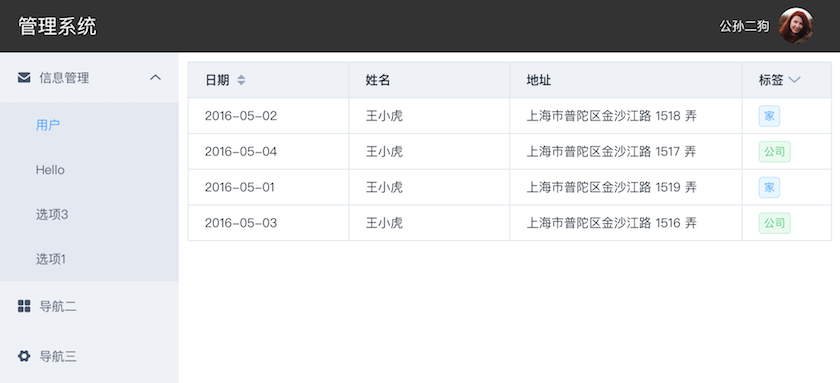
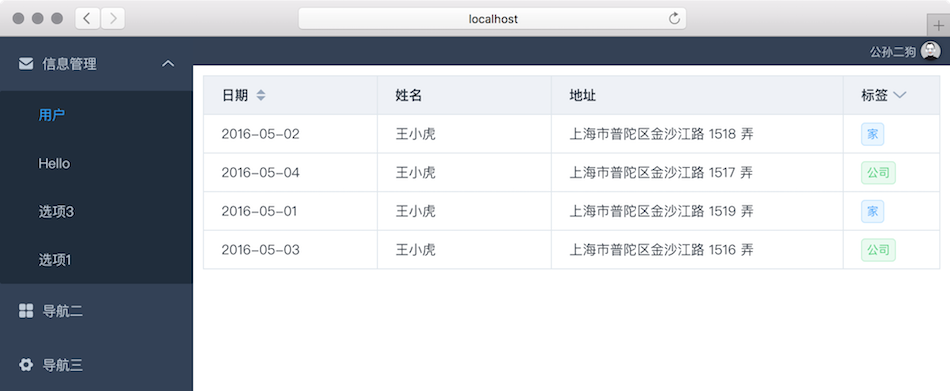
revise

diff --git a/source/_posts/fe-vue-admin.md b/source/_posts/fe-vue-admin.md
@@ -56,56 +56,6 @@ new Vue({
 
 > 在 main.js 中引入 Element，例如 vuex 也在此页面引入。
 
-## App.vue
-
-```html
-<template>
-    <div id="app">
-        <transition name="fade" mode="out-in">
-            <router-view></router-view>
-        </transition>
-    </div>
-</template>
-
-<script>
-    export default {};
-</script>
-
-<style lang="scss">
-    body {
-        font-family: '微软雅黑', Helvetica, Arial, sans-serif;
-        -webkit-font-smoothing: antialiased;
-        -moz-osx-font-smoothing: grayscale;
-
-        margin: 0px;
-        padding: 0px;
-        font-size: 14px;
-    }
-
-    #app {
-        position: absolute;
-        top: 0px;
-        bottom: 0px;
-        width: 100%;
-    }
-
-    /* transition fade 的样式 */
-    .fade-enter-active,
-    .fade-leave-active {
-    	transition: all .2s ease;
-    }
-
-    .fade-enter,
-    .fade-leave-active {
-    	opacity: 0;
-    }
-</style>
-```
-
-> Home, 404 等都是替换此页中的 router-view，因为它们在 routes 配置中是第一级 path。
->
-> 动画 transition 中的 mode="out-in" 不能省略。
-
 ## router/index.js
 
 ```js
@@ -144,50 +94,102 @@ export default new Router({
 >
 > 此外还配置了 404 的路由。
 
+## App.vue
+
+```html
+<template>
+    <div id="app">
+        <transition name="fade" mode="out-in">
+            <router-view></router-view>
+        </transition>
+    </div>
+</template>
+
+<script>
+    export default {};
+</script>
+
+<style lang="scss">
+    html, body {
+        font-family: '微软雅黑', Helvetica, Arial, sans-serif;
+        -webkit-font-smoothing: antialiased;
+        -moz-osx-font-smoothing: grayscale;
+        margin: 0px;
+        padding: 0px;
+        font-size: 14px;
+    }
+
+    #app {
+        position: absolute;
+        top: 0;
+        left: 0;
+        bottom: 0;
+        right: 0;
+    }
+
+    /* transition fade 的样式 */
+    .fade-enter-active,
+    .fade-leave-active {
+    	transition: all .2s ease;
+    }
+    .fade-enter,
+    .fade-leave-active {
+    	opacity: 0;
+    }
+</style>
+```
+
+> Home, 404 等都是替换此页中的 router-view，因为它们在 routes 配置中是第一级 path。
+>
+> 动画 transition 中的 mode="out-in" 不能省略。
+
 ## Home.vue
 
 ```html
 <template>
-    <el-row class="container">
-        <!-- 最上面的头部信息 -->
-        <el-col :span="24" class="header">
-            <el-col :span="10" class="logo">{{systemName}}</el-col>
-            <el-col :span="4" class="userinfo">
-                <el-dropdown trigger="hover">
-                    <span class="el-dropdown-link userinfo-inner"><img :src="avatar" />{{username}}</span>
-                    <el-dropdown-menu slot="dropdown">
-                        <el-dropdown-item>消息</el-dropdown-item>
-                        <el-dropdown-item>设置</el-dropdown-item>
-                        <el-dropdown-item divided @click.native="logout">退出登录</el-dropdown-item>
-                    </el-dropdown-menu>
-                </el-dropdown>
-            </el-col>
-        </el-col>
+    <div class="container">
+        <!-- 侧边导航栏 -->
+        <div class="sidebar">
+            <el-menu :default-active="$route.path" router theme="dark">
+                <el-submenu index="1">
+                    <template slot="title"><i class="el-icon-message"></i>信息管理</template>
+                    <el-menu-item index="/users">用户</el-menu-item>
+                    <el-menu-item index="/hello">Hello</el-menu-item>
+                    <el-menu-item index="1-3">选项3</el-menu-item>
+                    <el-menu-item index="1-4-1">选项1</el-menu-item>
+                </el-submenu>
+                <el-menu-item index="2"><i class="el-icon-menu"></i>导航二</el-menu-item>
+                <el-menu-item index="3"><i class="el-icon-setting"></i>导航三</el-menu-item>
+            </el-menu>
+        </div>
 
-        <el-col :span="24" class="main">
-            <!-- 侧边导航栏: router 表示路由，index 为路由的路径 -->
-            <div class="sidebar">
-                <el-menu default-active="1" router>
-                    <el-submenu index="1">
-                        <template slot="title"><i class="el-icon-message"></i>信息管理</template>
-                        <el-menu-item index="/users">用户</el-menu-item>
-                        <el-menu-item index="/hello">Hello</el-menu-item>
-                        <el-menu-item index="1-3">选项3</el-menu-item>
-                        <el-menu-item index="1-4-1">选项1</el-menu-item>
-                    </el-submenu>
-                    <el-menu-item index="2"><i class="el-icon-menu"></i>导航二</el-menu-item>
-                    <el-menu-item index="3"><i class="el-icon-setting"></i>导航三</el-menu-item>
-                </el-menu>
-            </div>
+        <!-- 主体部分 -->
+        <div class="main">
+            <!-- 头部 -->
+            <el-row class="header" type="flex" justify="space-between">
+                <el-col :span="10" class="logo"></el-col>
+                <el-col :span="4" class="userinfo">
+                    <el-dropdown trigger="hover">
+                        <span class="el-dropdown-link userinfo-inner"><img class="avatar" :src="avatar">{{username}}</span>
+                        <el-dropdown-menu slot="dropdown">
+                            <el-dropdown-item>消息</el-dropdown-item>
+                            <el-dropdown-item>设置</el-dropdown-item>
+                            <el-dropdown-item divided @click.native="logout">退出登录</el-dropdown-item>
+                        </el-dropdown-menu>
+                    </el-dropdown>
+                </el-col>
+            </el-row>
 
-            <!-- 内容区域 -->
-            <div class="content">
-                <transition name="fade" mode="out-in">
-                    <router-view></router-view>
-                </transition>
-            </div>
-        </el-col>
-    </el-row>
+            <!-- 内容区 -->
+            <el-row>
+                <el-col :span="24" class="content">
+                    <transition name="fade" mode="out-in">
+                        <router-view></router-view>
+                    </transition>
+                </el-col>
+            </el-row>
+        </div>
+    </div>
 </template>
 
 <script>
@@ -196,7 +198,7 @@ export default new Router({
             return {
                 systemName: '管理系统',
                 username: '公孙二狗',
-                avatar: '/static/img/avatar.png'
+                avatar: '/static/img/avatar.jpg'
             };
         },
         methods: {
@@ -209,69 +211,58 @@ export default new Router({
 </script>
 
 <style lang="scss">
-    $sidebarWidth: 200px; // 侧边栏的宽度
+    $sidebarWidth: 200px; // 侧边栏的宽
+    $headerHeight: 30px; // 头部的高
 
     .container {
+        display: flex;
         position: absolute;
         top: 0;
         left: 0;
         bottom: 0;
         right: 0;
 
-        .header {
-            height: 60px;
-            line-height: 60px;
-            background: #333;
-            color: #fff;
-
-            .logo {
-                width: $sidebarWidth;
-                height: 60px;
-                line-height: 60px;
-                font-size: 22px;
-                padding: 0 20px;
-            }
-
-            .userinfo {
-                text-align: right;
-                padding-right: 30px;
-                float: right;
-
-                .userinfo-inner {
-                    cursor: pointer;
-                    color: #fff;
-                    img {
-                        width: 40px;
-                        height: 40px;
-                        border-radius: 20px;
-                        margin: 10px 0px 10px 10px;
-                        float: right;
-                    }
-                }
-            }
+        .sidebar {
+            width: $sidebarWidth;
+            left: 0;
+            top: 0;
+            bottom: 0;
+            background: #334156;
+            overflow: auto;
         }
 
         .main {
-            display: flex;
-            position: absolute;
-            top: 60px;
-            bottom: 0px;
             overflow: hidden;
+            flex: 1;
 
-            .sidebar {
-                width: $sidebarWidth;
-                top: 0px;
-                bottom: 0px;
-                background: #EEF1F6;
-                overflow: auto;
+            .header {
+                display: flex;
+                height: $headerHeight;
+                line-height: $headerHeight;
+                padding: 0 10px;
+                background: #334156;
 
-                .el-menu {
-                    border-radius: 0;
+                .userinfo {
+                    text-align: right;
+
+                    .userinfo-inner {
+                        cursor: pointer;
+                        color: #BDC9D6;
+                        font-size: 12px;
+
+                        .avatar {
+                            width: 20px;
+                            height: 20px;
+                            border-radius: 20px;
+                            margin: 5px 0 0px 5px;
+                            float: right;
+                            box-shadow: 0 0 5px rgba(0, 0, 0, 0.5);
+                        }
+                    }
                 }
             }
 
             .content {
-                flex: 1;
                 padding: 10px;
             }
         }
@@ -282,6 +273,8 @@ export default new Router({
 > Home 实现了管理界面的结构，点击导航栏中的项时，对应路由的页面显示在页面的主要内容区。
 >
 > Home 主要是用了 Element 的 NavMenu，dropdown 和 layout，同时也用了 flex，具体的用法需要去阅读相关帮助文档。
+>
+> `<el-menu :default-active="$route.path" router>` 中的 `:default-active="$route.path"` 比较有意思，页面刷新或者返回时，自动的展开上一个页面时侧边栏，`$route.path` 值例如为 `/users`。
 
 ## Users.vue
 
@@ -412,7 +405,8 @@ export default new Router({
         width: 100%;
         height: 100%;
         color: #888;
-        margin: 2em auto;
+        margin: 0 auto;
+        padding-top: 20px;
         text-align: center;
 
         h1 {
